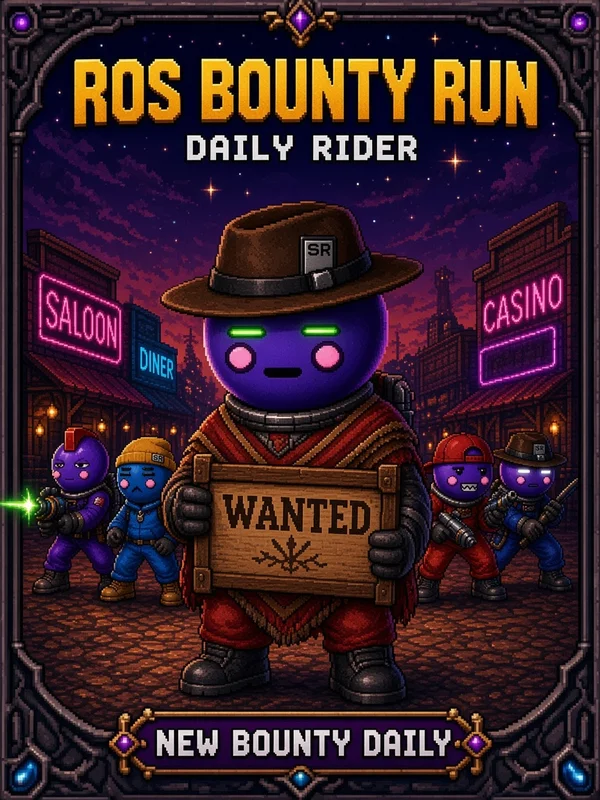
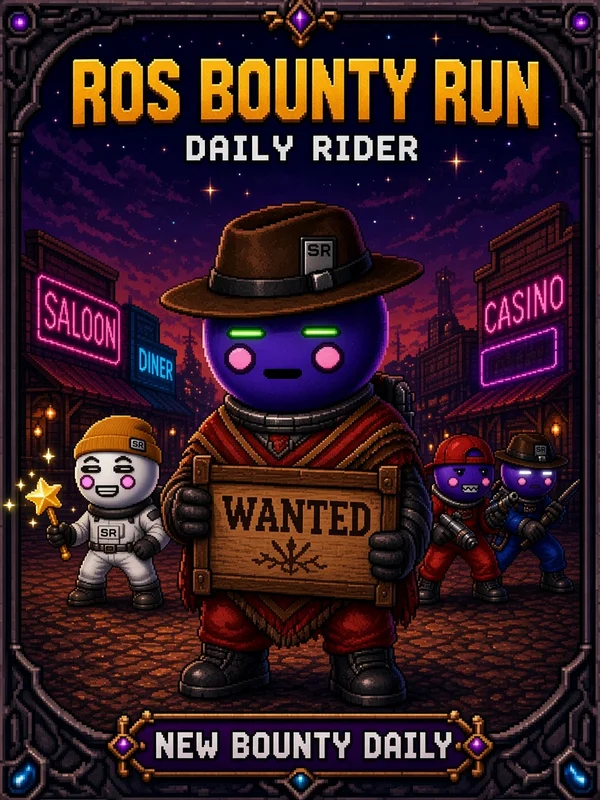
ROS Bounty Run: new hub card (Skippy) and description

diff --git a/index.html b/index.html
@@ -70,7 +70,7 @@ footer a{color:var(--cyan)}
 // Add new games at the top of this list.
 const GAMES = [
  {title:"ROS Bounty Run: Daily Rider", url:"https://sanyziahj.github.io/ros-bounty-run/", img:"img/ros-bounty-run.webp", isNew:true,
-  desc:"A new bounty every day, the same for every rider. Pick Santt, Jazz, Cavendish or the Hunter Rider, blast through 5 arena rooms, stack upgrades and synergies, then face ROS himself. 3 tries a day, keep your streak alive, practice past bounties in the archive and claim a Certified Victor poster. Let's Ride!", touch:true},
+  desc:"A new bounty every day, the same for every rider. Pick Skippy, Jazz, Cavendish or the Hunter Rider, blast through 5 arena rooms, stack upgrades, call in Santt for a giant green laser blast, then face ROS himself. 3 tries a day, keep your streak alive, practice past bounties in the archive and claim a Certified Victor poster. Let's Ride!", touch:true},
  {title:"Hunter Rider: Void Anomalies", url:"https://sanyziahj.github.io/hunter-rider/", img:"img/hunter-rider.webp", isNew:true,
   desc:"Gothic 16-bit mystery platformer. Crack the case with an electric whip, a laser raygun and Icy's once-per-stage freeze. Climb stairs, swing on rings, gather clues and solve puzzles from the SR Space Diner to the Underworld. Pick who to follow, choose the Wizard's fate and take down three giant bosses. Let's Ride!", touch:true},
  {title:"Space Riders: Cosmic Board", url:"https://sanyziahj.github.io/space-riders-board/", img:"img/space-riders-board.webp", isNew:true,
